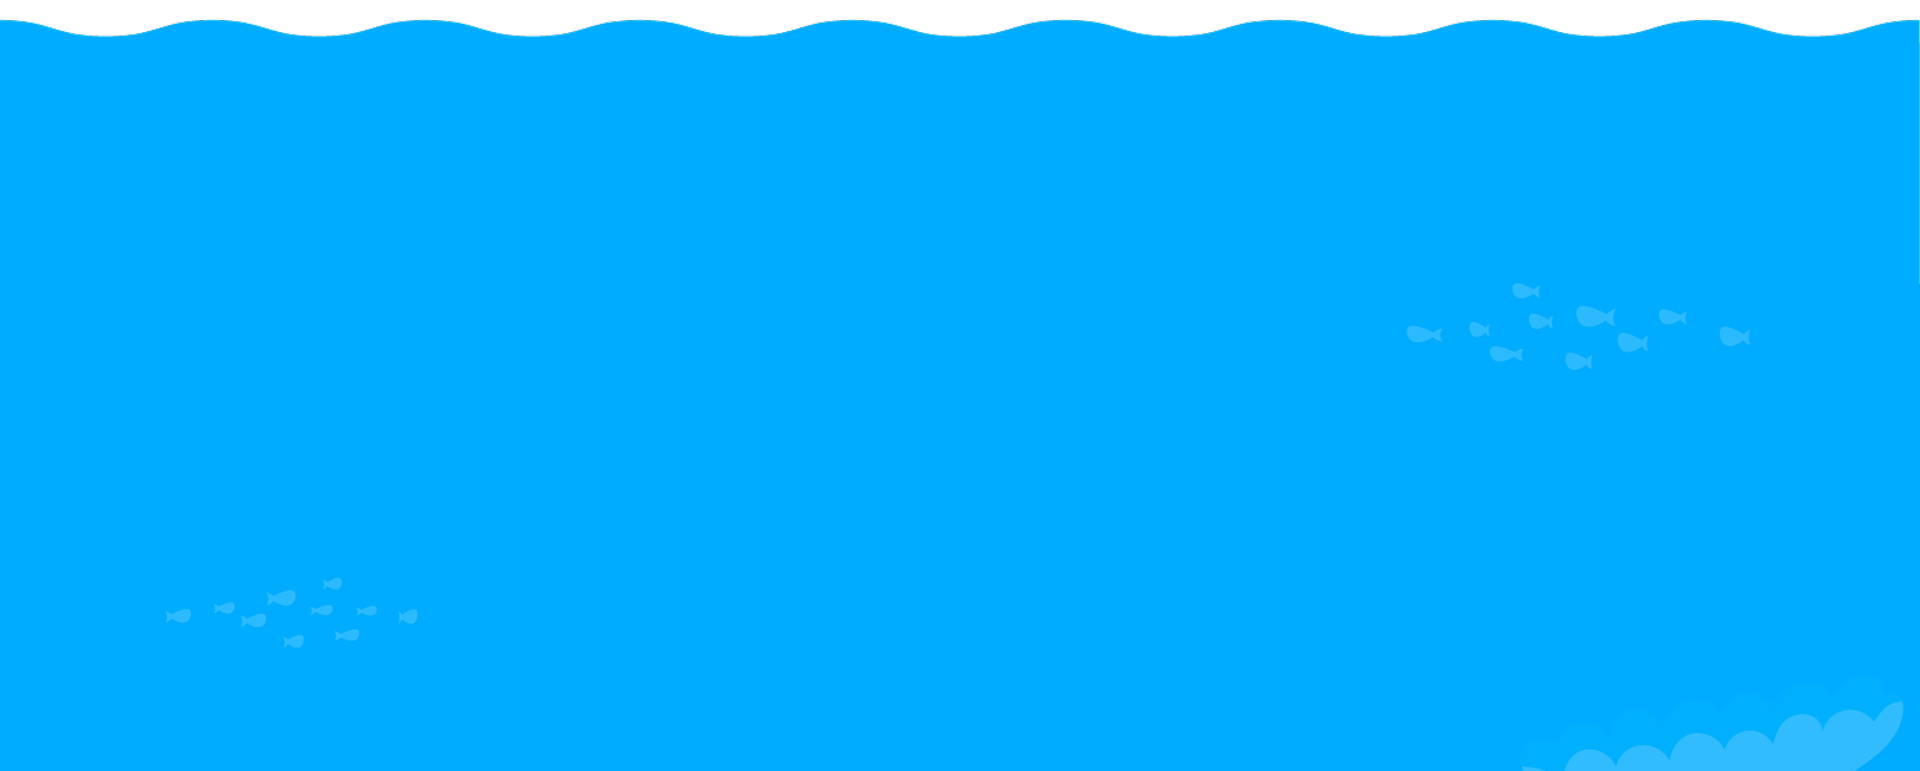
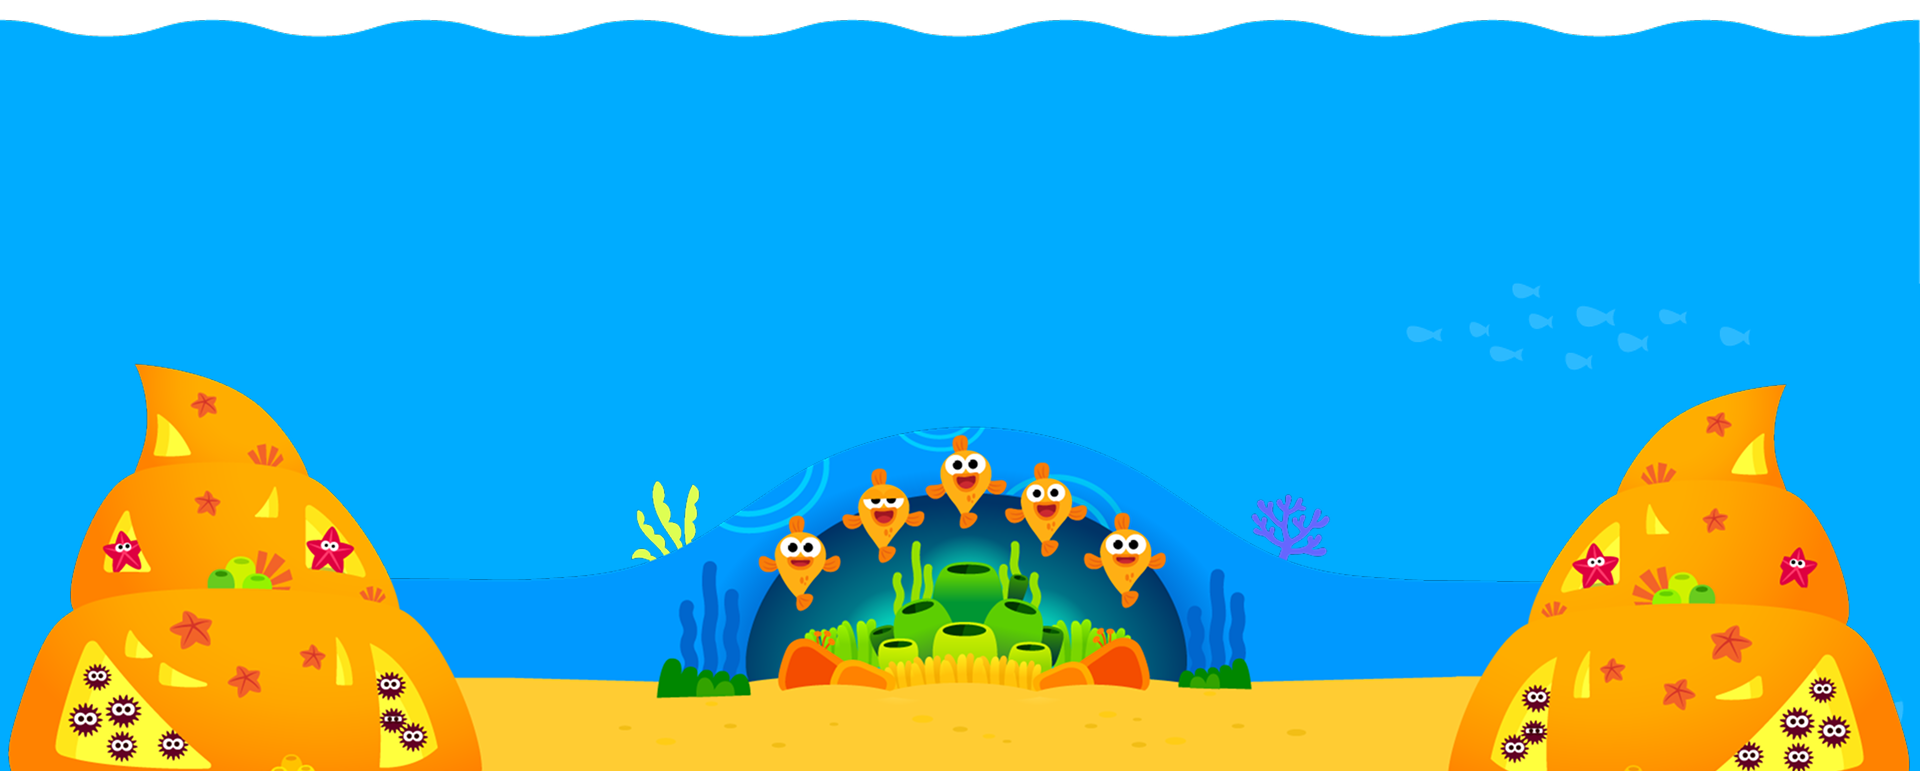
pinkfong_pc

Changed region(s): [[0.0, 0.4669, 1.0, 1.0], [0.6562, 0.6226, 0.6875, 0.7471]]

diff --git a/index.html b/index.html
@@ -188,8 +188,107 @@
       <section class="section_4">
         <h3><span>핑크퐁</span> 플레이리스트</h3>
 
-        <div class="video_wrap"></div>
+        <div class="video_wrap">
+          <div class="video_left">
+            <a
+              href="https://www.youtube.com/shorts/gIFqka3k3io?feature=share"
+              target="_blank"
+            >
+              <img src="img/section_4/video_4_1.png" alt="video_4_1" />
+            </a>
+          </div>
+
+          <div class="video_right">
+            <div class="video_4_2">
+              <a href="https://youtu.be/761ae_KDg_Q" target="_blank">
+                <img src="img/section_4/video_4_2.png" alt="video_4_2" />
+              </a>
+            </div>
+
+            <div class="video_4_3">
+              <a href="https://youtu.be/ouweE3r0Ic0" target="_blank">
+                <img src="img/section_4/video_4_3.png" alt="video_4_3" />
+              </a>
+            </div>
+
+            <div class="video_4_4">
+              <a href="https://youtu.be/HPfedLwd_7w" target="_blank">
+                <img src="img/section_4/video_4_4.png" alt="video_4_4" />
+              </a>
+            </div>
+
+            <div class="video_4_5">
+              <a
+                href="https://youtu.be/Z-20w7NyT0s?list=RDZ-20w7NyT0s"
+                target="_blank"
+              >
+                <img src="img/section_4/video_4_5.png" alt="video_4_5" />
+              </a>
+            </div>
+          </div>
+        </div>
       </section>
+      <!-- section_4 end -->
+
+      <footer>
+        <div class="footer_bg_wrap">
+          <div class="ocean_bg">
+            <img src="img/footer/ocean_bg.png" alt="ocean_bg" />
+          </div>
+
+          <div class="babyshark_family">
+            <img src="img/footer/shark_family 1.png" alt="babyshark_family" />
+          </div>
+
+          <div class="footer_title">
+            <img src="img/footer/pinkfong.png" alt="pinkfong" />
+          </div>
+        </div>
+
+        <div class="info">
+          <div class="news">
+            <a href="#">뉴스레터    |</a>
+          </div>
+
+          <div class="coalition">
+            <a href="#">    제휴 문의    |</a>
+          </div>
+
+          <div class="company">
+            <a href="#">    더핑크퐁컴퍼니</a>
+          </div>
+        </div>
+
+        <div class="copylight">
+          ⓒ The Pinkfong Company. All Rights Reserved.
+        </div>
+
+        <div class="sns_wrap">
+          <div class="youtube">
+            <a href="https://www.youtube.com/PinkfongKO">
+              <img src="img/footer/youtube.png" alt="youtube" />
+            </a>
+          </div>
+
+          <div class="instagram">
+            <a href="https://www.instagram.com/pinkfong.ko/#">
+              <img src="img/footer/insta.png" alt="insta" />
+            </a>
+          </div>
+
+          <div class="facebook">
+            <a href="https://www.facebook.com/pinkfong.ko">
+              <img src="img/footer/facebook.png" alt="facebook" />
+            </a>
+          </div>
+
+          <div class="blog">
+            <a href="https://blog.naver.com/ss_app">
+              <img src="img/footer/blog.png" alt="blog" />
+            </a>
+          </div>
+        </div>
+      </footer>
     </div>
   </body>
 </html>

diff --git a/css/style.css b/css/style.css
@@ -221,6 +221,7 @@ header a {
   --swiper-navigation-sides-offset: 10px;
   --swiper-navigation-color: #ff66ae;
 }
+/* section_3 end */
 
 .section_4 {
   padding: 150px 250px;
@@ -236,4 +237,83 @@ header a {
 
 .section_4 span {
   color: #ff66ae;
+}
+
+.video_wrap {
+  display: flex;
+  justify-content: space-between;
+}
+.video_left {
+  margin-right: 20px;
+}
+
+.video_right {
+  display: grid;
+  grid-template-columns: repeat(2, 1fr);
+  gap: 20px;
+}
+/* section_4 end */
+
+footer {
+  width: 100%;
+  height: 1065px;
+  position: relative;
+}
+
+.footer_bg_wrap {
+  width: 100%;
+}
+
+.ocean_bg {
+  width: 100%;
+  position: absolute;
+  top: 300px;
+  left: 0;
+}
+
+.babyshark_family {
+  position: absolute;
+  top: 5%;
+  left: 50%;
+  transform: translateX(-50%);
+}
+
+.footer_title {
+  position: absolute;
+  top: 52%;
+  left: 50%;
+  transform: translateX(-50%);
+}
+
+.info {
+  display: flex;
+  position: absolute;
+  bottom: 45px;
+  left: 50%;
+  transform: translateX(-50%);
+}
+
+.info a {
+  font-size: 20px;
+  color: #1d1d1d;
+}
+
+.copylight {
+  font-size: 12px;
+  color: #808080;
+  position: absolute;
+  bottom: 20px;
+  left: 50%;
+  transform: translateX(-50%);
+}
+
+.sns_wrap {
+  width: 70px;
+  height: 340px;
+  position: fixed;
+  bottom: 80px;
+  right: 80px;
+  display: flex;
+  justify-content: space-between;
+  flex-direction: column;
 }
